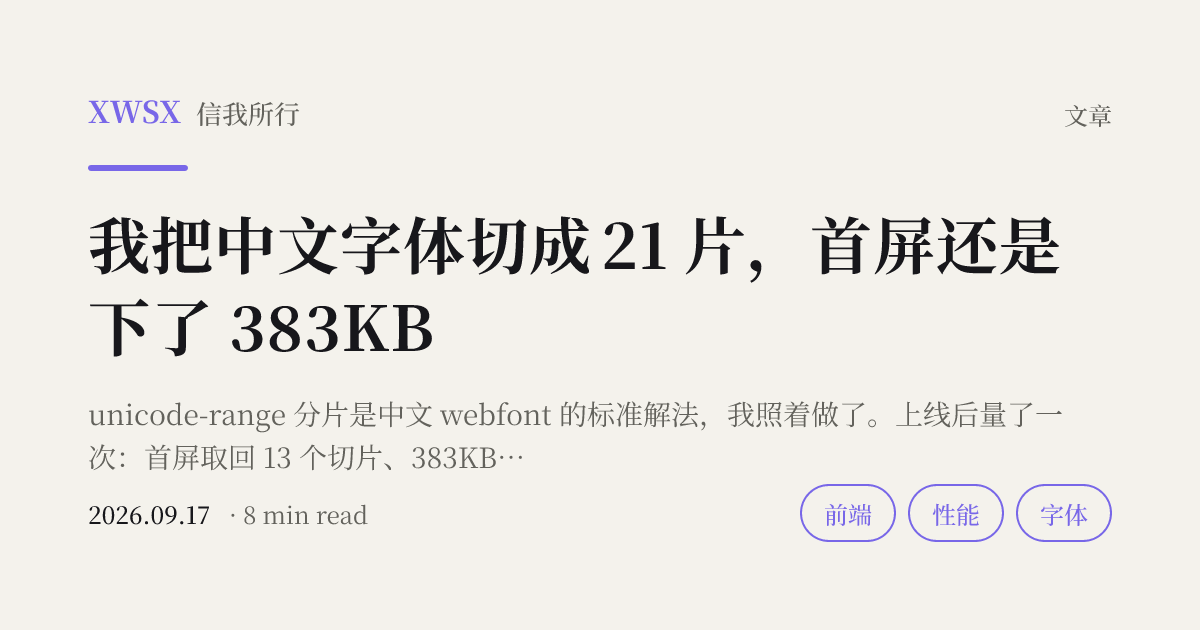
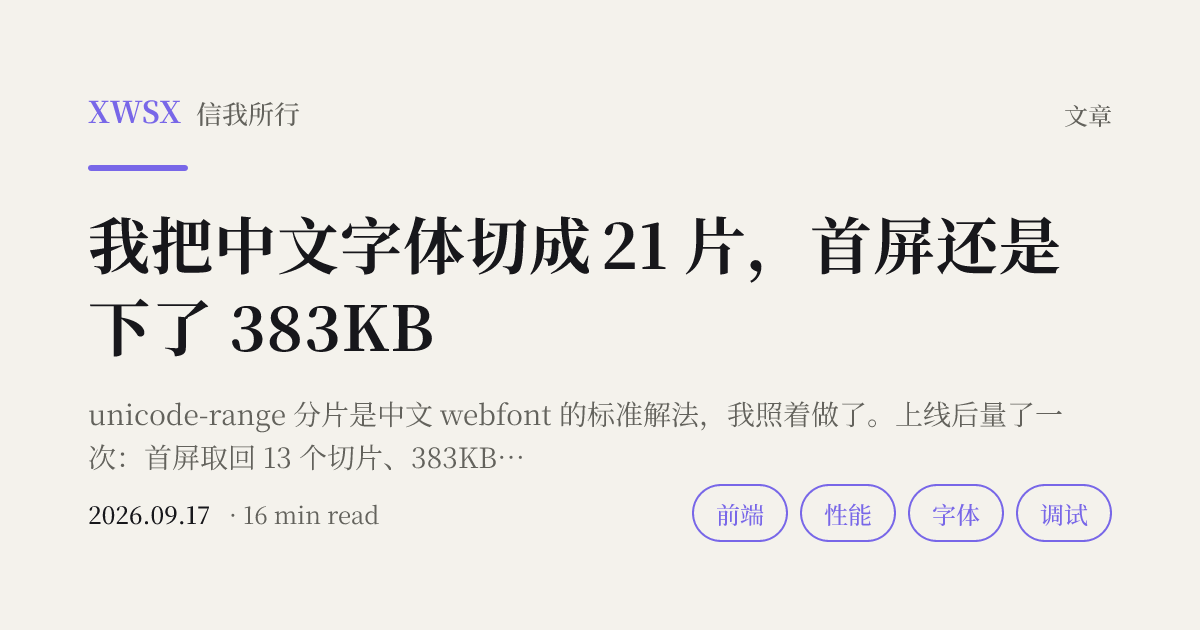
docs: 补记第二个静默故障，并为 Markdown 表格补样式
文章 chinese-font-slicing-failed 追加一节：修完字体分片后，同一个脚本的收尾输出被解析脚本误写进样式表，压缩后与 :root 拼成匹配不到任何元素的选择器，导致全站 CSS 变量失效。文中把两次故障对照起来——都是「代码写了意图、运行给出另一个结果、中间没有任何提示」。

ROADMAP 的验收基线新增「看一眼页面截图」：故障当天我验了字体请求、CDP 字形、OG 图，唯独没看页面整体，而这类结构性错误一张截图就能发现。另把「静默失败」整理成清单（rmSync / 分片减法 / stdout 落盘 / 字形回退），并提出可自动化的字形覆盖检查。

发现并补上内容渲染的缺口：marked 的 gfm 表格此前没有任何样式，宽表会挤成一团。现在服务端给 table 包一层横向滚动容器，样式跟着编辑风走（只用横线、表头深线、首列不折行），文章页与案例页同步。

diff --git a/app/globals.css b/app/globals.css
@@ -2088,6 +2088,45 @@ main {
 .article-body blockquote p {
   margin: 0;
 }
+/* 表格：跟着编辑风走——只用横线，不画网格。
+   marked 的 gfm 表格会输出 <table><thead><tr><th>…，此前没有对应样式，
+   宽表在窄容器里会挤成一团（列无间隔、文字频繁折行）。
+   外层包一个可横向滚动的容器，代码块同理。 */
+.article-body .table-scroll {
+  margin: 26px 0;
+  overflow-x: auto;
+}
+.article-body table {
+  width: 100%;
+  border-collapse: collapse;
+  font-size: 14px;
+  line-height: 1.7;
+}
+.article-body th,
+.article-body td {
+  padding: 11px 14px 11px 0;
+  text-align: left;
+  vertical-align: top;
+  border-bottom: 1px solid var(--line);
+}
+.article-body th {
+  border-bottom-color: var(--ink);
+  color: var(--ink);
+  font-weight: 700;
+  white-space: nowrap;
+}
+/* 首列是「项目名」，不折行；后续列允许换行但给个下限，避免一列一个字 */
+.article-body th:first-child,
+.article-body td:first-child {
+  padding-left: 0;
+  white-space: nowrap;
+}
+.article-body td:nth-child(n + 2) {
+  min-width: 120px;
+}
+.article-body td code {
+  white-space: nowrap;
+}
 .article-body code {
   padding: 2px 7px;
   border: 1px solid var(--line);
@@ -2191,6 +2230,41 @@ main {
   background: none;
   font-size: 14px;
   line-height: 1.75;
+}
+/* 案例正文表格（与文章正文同规格，见 .article-body 一节） */
+.case-body .table-scroll {
+  margin: 26px 0;
+  overflow-x: auto;
+}
+.case-body table {
+  width: 100%;
+  border-collapse: collapse;
+  font-size: 14px;
+  line-height: 1.7;
+}
+.case-body th,
+.case-body td {
+  padding: 11px 14px 11px 0;
+  text-align: left;
+  vertical-align: top;
+  border-bottom: 1px solid var(--line);
+}
+.case-body th {
+  border-bottom-color: var(--ink);
+  color: var(--ink);
+  font-weight: 700;
+  white-space: nowrap;
+}
+.case-body th:first-child,
+.case-body td:first-child {
+  padding-left: 0;
+  white-space: nowrap;
+}
+.case-body td:nth-child(n + 2) {
+  min-width: 120px;
+}
+.case-body td code {
+  white-space: nowrap;
 }
 /* 案例正文行内代码与代码块（与文章正文同规格） */
 .case-body code {

diff --git a/lib/markdown.ts b/lib/markdown.ts
@@ -3,11 +3,16 @@ import { marked } from 'marked';
 import { highlightCode } from './highlight.ts';
 
 // 代码块 → 带 data-lang 的 pre；语言标签与复制按钮由客户端增强组件接管。
+// 表格 → 包一层可横向滚动容器（宽表在窄屏会撑破正文栏；服务端处理，无需 JS）。
 marked.use({
   renderer: {
     code({ text, lang }: { text: string; lang?: string }) {
       const language = (lang ?? '').trim().split(/\s+/)[0].toLowerCase() || 'text';
       return `<pre data-lang="${language}"><code>${highlightCode(text, language === 'text' ? undefined : language)}</code></pre>`;
+    },
+    table(token: { header: unknown[]; rows: unknown[][] }) {
+      const rendered = marked.Renderer.prototype.table.call(this, token as never);
+      return `<div class="table-scroll">${rendered}</div>`;
     },
   },
 });

diff --git a/content/articles/chinese-font-slicing-failed.md b/content/articles/chinese-font-slicing-failed.md
@@ -1,8 +1,8 @@
 ---
 title: 我把中文字体切成 21 片，首屏还是下了 383KB
-description: unicode-range 分片是中文 webfont 的标准解法，我照着做了。上线后量了一次：首屏取回 13 个切片、383KB，而被设计成「首屏关键」的那一片从来没被下载过。
+description: unicode-range 分片是中文 webfont 的标准解法，我照着做了。上线后量了一次：首屏取回 13 个切片、383KB，而被设计成「首屏关键」的那一片从来没被下载过。修完之后，同一个脚本又把整站的 CSS 变量搞崩了一次。
 published: 2026-09-17
-tags: [前端, 性能, 字体]
+tags: [前端, 性能, 字体, 调试]
 series: 工程手记
 ---
 
@@ -20,6 +20,8 @@ series: 工程手记
 ## 我的实现
 
 站点用三套字重（400 / 500 / 700）。生成脚本把每个字重切成 7 片，共 21 个 woff2 文件，输出到 `public/fonts/slices/`，同时打印一份 `@font-face` 规则供人贴进样式表。
+
+（这是当时的形态，也是标题里「21 片」的来处。文中后面的修复把子集扩充后变成每字重 9 片、共 27 个。）
 
 第 0 片被设计成「关键片」——脚本里叫 `CRITICAL`，收集首屏用字加 ASCII 与常用标点，单独成片，理论上应该最先需要、最该被提前加载：
 
@@ -139,12 +141,119 @@ for idx, codes in enumerate(slices):
 
 修复后重新生成了全部切片，并顺带按新增文章的用字扩充了子集（字形从 575 增到 1516）：每个字重 9 片，三份合计 365KB。
 
+## 第二天，同一个脚本把整站的样式搞崩了
+
+上面那个 bug 修完、推送上线，我以为这件事结束了。第二天刷新站点，看到的是这样：满屏颗粒、背景透明、所有颜色和字距都回到浏览器默认值——**CSS 变量全线失效**。
+
+查下来凶手还是 `split-fonts.py`，但这次不是分片逻辑，是我用来跑它的那段临时脚本。
+
+脚本末尾会打印一行收尾标记：
+
+```python
+print("DONE")
+```
+
+我用 Node 抓它的 stdout，按行切分，然后找那一行的下标作为 CSS 内容的结尾：
+
+```js
+const lines = out.split('\n');
+const doneIdx = lines.indexOf('DONE');        // ← 在 Windows 上永远找不到
+const css = lines.slice(cssStart, doneIdx).join('\n');
+```
+
+问题是 **Windows 下 Python 的输出是 CRLF 换行**，所以那一行实际是 `'DONE\r'`，而 `'DONE\r' !== 'DONE'`——`indexOf` 返回 `-1`。
+
+`slice(start, -1)` 在 JavaScript 里是「切到倒数第一个元素为止」，**不会报错**，只是默默把倒数第一个元素留在了结果里。于是那段 CSS 变成了：
+
+```
+...U+9ED8,U+9F50;
+}
+DONE
+
+:root {
+```
+
+压缩后是 `}DONE :root{--ink:#17171b;...}`。
+
+CSS 解析器看到的选择器是 **`DONE :root`**——一个「`<DONE>` 元素里的 `<html>`」，页面上当然不存在。于是整个 `:root` 规则被当作无效规则丢弃，**里面每一个变量都没了**。
+
+后果的分布很有意思：
+
+| 变量 | 失效后 |
+|---|---|
+| `--noise-opacity` | `opacity: var(--noise-opacity)` 无效 → 回退到初始值 **1** → 满屏颗粒 |
+| `--paper` | body 背景变透明 |
+| `--tracking-cjk-display` | 中文标题的字距回归默认 |
+| 其余颜色 | 全部失效 |
+
+一个词（`DONE`）混进去，整个站点的视觉系统归零。
+
+## 两个 bug，同一个形状
+
+回过头看，这两个 bug 是同一件事的两面：
+
+|  | 第一个 bug | 第二个 bug |
+|---|---|---|
+| 代码写的 | `all_chars - CRITICAL`（减法） | `lines.indexOf('DONE')`（查找） |
+| 实际行为 | int 集合减 str 集合 → 减不掉 | 找 `'DONE'` 但实际是 `'DONE\r'` → 找不到 |
+| 失败方式 | 返回原集合，不报错 | 返回 -1，不报错 |
+| 我为什么没发现 | 「脚本里明确做了减法，不可能重叠」 | 「Deploy 成功、字体请求正常」 |
+
+**两个都是「代码写了意图，运行给出另一个结果，而中间没有任何提示」。** 而两次我都是用**推理**代替了**验证**——第一次推理「减法不可能失效」，第二次部署后只检查了「我改的东西」（字体请求、字形渲染），没检查「页面整体还正常吗」。
+
+第二个 bug 更值得记的教训在这里：**我验的是我改的部分，不是系统**。字体确实修好了（这是真的），但同时我打坏了样式表（这也是真的）。如果部署后截一张图，问题当场就会看到。
+
+## 修法：让这类错误不可能发生
+
+这次没有停在「修好了」。两个改动：
+
+**一、脚本直接改写样式表，不再有人解析它的输出。**
+
+样式表里给字体块加了标记：
+
+```css
+/* @font-faces:start */
+@font-face { ... }
+/* @font-faces:end */
+```
+
+`split-fonts.py` 现在自己读文件、替换标记之间的内容、写回：
+
+```python
+start = source.find(START_MARK)
+end = source.find(END_MARK)
+if start == -1 or end == -1 or end < start:
+    raise SystemExit(f"{CSS_FILE} 里找不到标记，未做修改。")
+updated = source[:start] + block + source[end + len(END_MARK):]
+```
+
+读写都指定 `encoding="utf-8"` 和 `newline=""`，保留原有换行。这样「脚本输出 → 人/工具搬运」这一环被整个删掉了——**那个环节本来就不该存在**。
+
+**二、两道自检。**
+
+```python
+# 分片码位不得相交
+seen: set[int] = set()
+for idx, codes in enumerate(slices):
+    if seen & set(codes):
+        raise SystemExit(f"切片 {idx} 与前面的片重叠")
+
+# 写入后不得出现收尾文本
+for stray in ("DONE", "Traceback"):
+    if stray in updated:
+        raise SystemExit(f"{CSS_FILE} 里出现了意外的 {stray}，请检查。")
+```
+
+第二道自检专门盯着这次的失误：**如果脚本的收尾文本混进了页面内容，就别让它安静地过去。**
+
 ## 教训
 
 这个优化失效了将近两周，没有任何报错、没有任何告警、Lighthouse 也不会有意见——它只是安静地多下了 300 多 KB。**性能优化如果不配一个能重复执行的测量，就跟没做差不多**，因为你无法区分「按设计工作」和「完全没生效」。
 
 比这更值得记的是我判断错的那一步。当时的推理链是「代码写了减法 → 减法不可能失效 → 一定是流程问题」，而正确的做法是**直接验证那个减法**——打印一下 `len(all_chars)` 和 `len(rest)`，两个数字相等，问题当场就暴露了。
 
-我后来在脚本里加的那段自检，本质上就是把这个问题变成「一眼可见」。凡是靠「我确信这里没问题」来跳过的地方，都该有一条断言替你把关。
+而第二天那个 `DONE` 说明，这类错误不会因为你刚修过一个就放过你。它们来自同一个习惯：**信任代码的意图，而不是它的输出**。真正的防线不是「写得更小心」，而是让每一步的结果都有人能看见——断言、标记、截图、一个能重复跑的数字。
 
-至于眼下的 383KB，真正该回答的问题其实更靠前：一个以中文字为主的站点，值不值得为衬线标题加载三套字重、二十多个分片的定制字体？如果答案是「值」，那分片要修对；如果「不值」，那更省事的做法是用系统自带的衬线字体兜底，把这份预算留给别的地方。
+凡是靠「我确信这里没问题」来跳过的地方，都该有一条断言替你把关。
+
+至于眼下这二十多个分片，真正该回答的问题其实更靠前：一个以中文字为主的站点，值不值得为衬线标题加载三套字重、二十多个分片的定制字体？如果答案是「值」，那分片要修对；如果「不值」，那更省事的做法是用系统自带的衬线字体兜底，把这份预算留给别的地方。

diff --git a/ROADMAP.md b/ROADMAP.md
@@ -137,6 +137,41 @@
 - [ ] `npm run lint` 零告警（`components/ui` 的 shadcn 模板既有告警除外）
 - [ ] `npm run build` 通过（CI 同款）
 - [ ] 浏览器 console 零警告，明暗两主题正常
+- [ ] **看一眼页面截图**（见下）
 - [ ] 移动视口（390px）无横向溢出，chip 与文本链接的命中区正常
 - [ ] 中文标题的全角标点在明暗两主题下都有可见间隙
 - [ ] 改 `.cta h2` / `.hero h1` 的文案行数时，同步更新字号守卫的除数（见迭代 3）
+
+### 为什么「看一眼截图」是单独一条
+
+2026-09-18 出过一次线上故障：`split-fonts.py` 收尾打印的 `DONE` 被解析脚本误当成 CSS 内容写进样式表，压缩后与 `:root` 拼成选择器 `DONE :root`——匹配不到任何元素，于是**整块 CSS 变量被丢弃**（`--noise-opacity` 失效使 `opacity` 回退到 1，满屏颗粒；`--paper` 失效使背景透明）。
+
+当时我验了字体请求、CDP 字形、OG 图片——**每一项都验证了「我改的东西」，却没验证「页面整体还正常吗」**。而这类结构性错误，一张截图就能发现。
+
+教训：**验收要看着产出，不是看着变量**。「我改的部分没报错」不等于「系统没被我弄坏」。凡是改动涉及以下任一项，都该截图复核：
+
+- 样式表的结构（不只是某个属性值）
+- 构建/部署脚本
+- 任何会改写源文件的工具
+
+### 相关：工具链里的静默失败清单
+
+这个项目已经踩过三次「不报错但也没生效」的坑，它们形状相同：
+
+| 位置 | 代码的意图 | 实际行为 |
+| --- | --- | --- |
+| `fs.rmSync` 递归删除 | 删掉 dist | 路径含非 ASCII 时静默失败（errno 0）；已用 `scripts/clean-dist.mjs` 替代 |
+| `split-fonts.py` 减法 | `all_chars - CRITICAL` | int 集合减 str 集合 = 空操作；已修为先转码位，并加重叠自检 |
+| 分片 CSS 的落盘 | 取出脚本输出的 CSS 部分 | CRLF 使结尾标记匹配失败，收尾文本混进样式表；已改为脚本直接改写标记之间的内容 |
+| 字体字形覆盖 | 子集包含页面用字 | 新增文章引入新字后，缺字形**不报错**，浏览器静默回退到访客本机字体（字形混搭）；靠 CDP 的 `CSS.getPlatformFontsForNode` 才能看出 |
+
+四者的共同点是**没有断言、没有测量、没有人工看一眼**。遇到底层工具/脚本行为异常时，先写一段最小复现确认假设，别直接怀疑调用方。
+
+### 可加的自动检查（尚未实现）
+
+前三条都是「改工具链时才会触发」的，但**字形覆盖**是内容更新的常规副作用，值得做成脚本：
+
+1. 收集 `content/` + `app/` 的用字，与 `fonts-src/*.woff2` 的 cmap 求差集
+2. 差集非空即报错，提示重跑 `subset-fonts.py` + `split-fonts.py`
+
+这比「上线后靠 CDP 抽查」可靠，也能在 CI 里跑。
